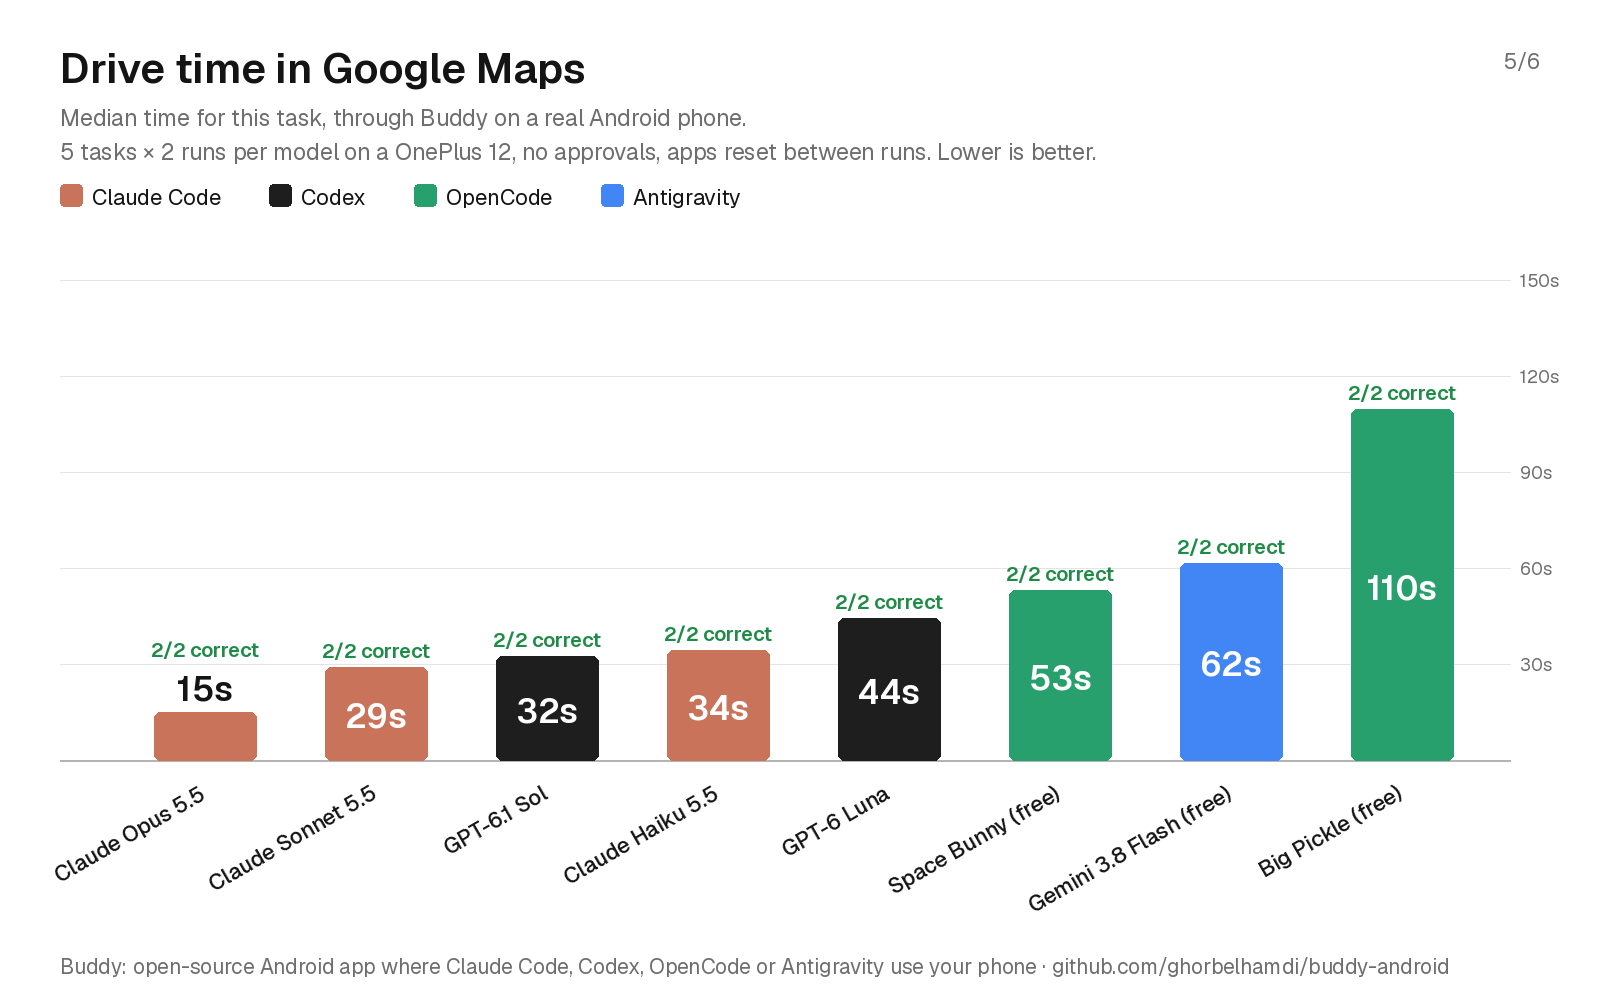
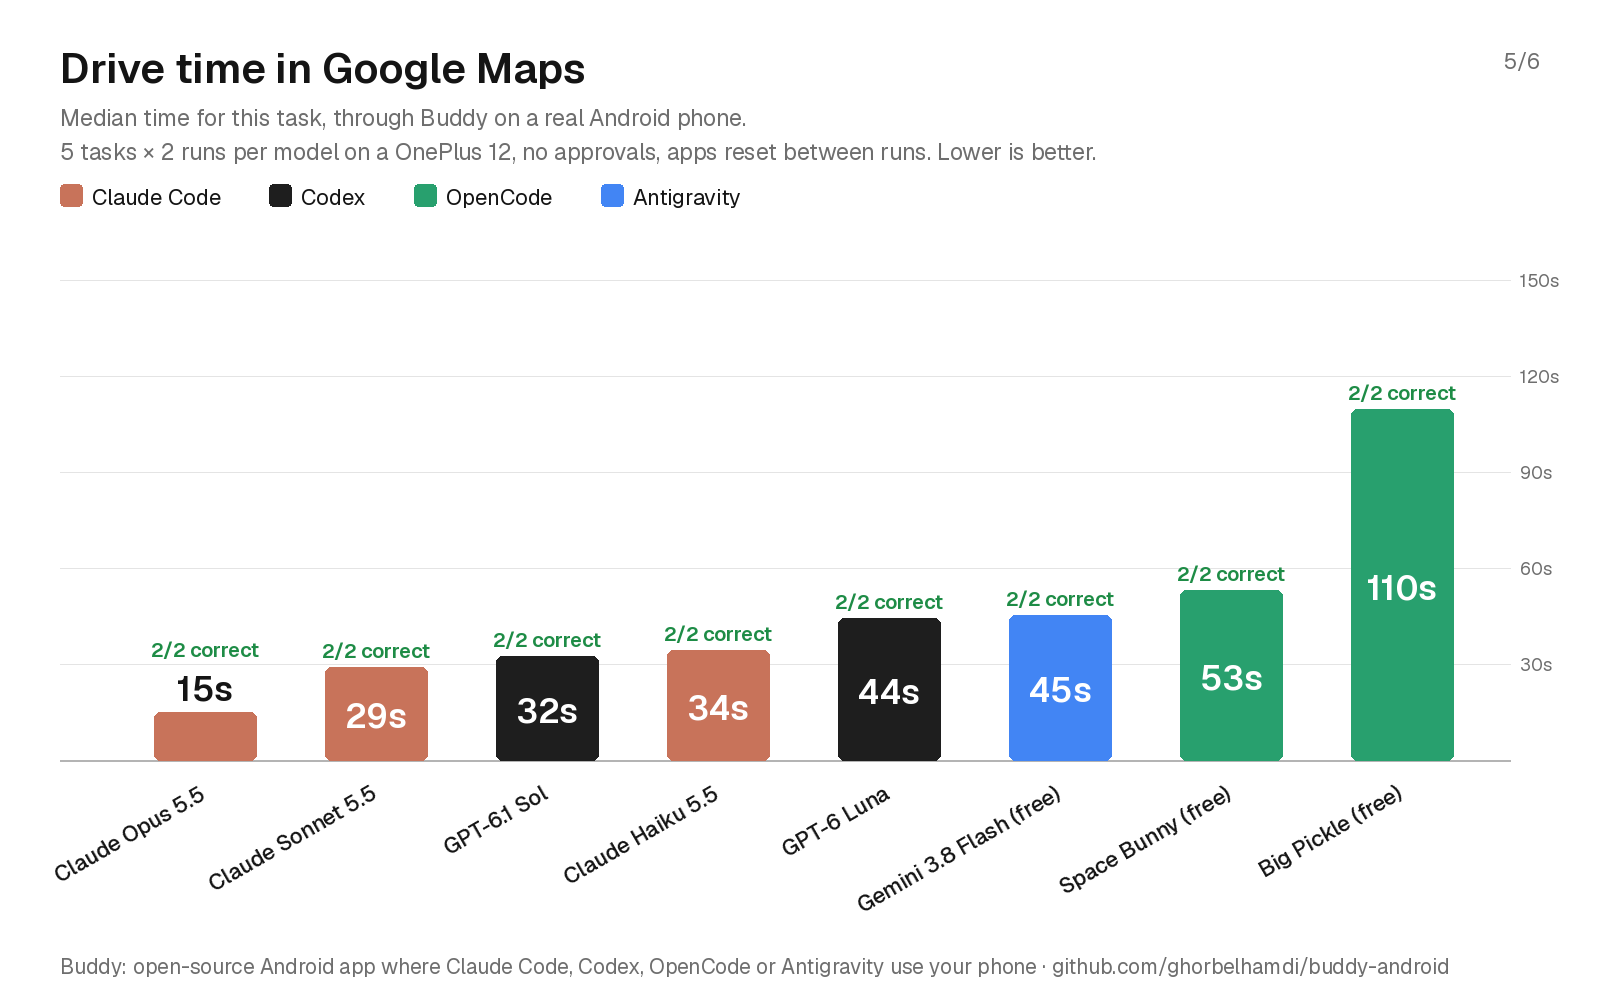
Benchmark: Antigravity rerun on Buddy 2.2.8
The first run was a pre-release build, before Buddy told Antigravity the phone tools' arguments up front. Rerun on
2.2.8 (another Google account, same setup, developer mode on as before): 10/10 correct, median 46 s (was 64 s),
11 steps. Calculator was its weak spot (127 s, 219 s). Charts redrawn.

Claude-Session: https://claude.ai/code/session_01Sz8Aewz1mUApAuyDmVa6LF

diff --git a/benchmark/README.md b/benchmark/README.md
@@ -34,7 +34,7 @@ Median time per task over all 10 runs:
 | Claude Haiku 5.5 | Claude Code | 30 s | 10/10 | 14 |
 | GPT-6.1 Sol | Codex | 36 s | 10/10 | 13 |
 | Space Bunny (free) | OpenCode | 43 s | 10/10 | 15 |
-| Gemini 3.8 Flash Medium (free) | Antigravity | 64 s | 10/10 | 11 |
+| Gemini 3.8 Flash Medium (free) | Antigravity | 46 s | 10/10 | 11 |
 | Big Pickle (free) | OpenCode | 112 s | 10/10 | 12 |
 
 Answers were checked by hand. Luna's misses: twice it gave today's high and low instead of the current temperature, and once it couldn't get Calculator to compute and answered from its own math. For YouTube the agent's own report that the video plays was accepted.
@@ -45,7 +45,7 @@ Raw runs: [results.jsonl](results.jsonl) (`ms` = time, `tools` = phone tool call
 
 ## Limits
 
-One phone, one locale, 2 runs per model and task: a first look, not a definitive ranking. Free OpenCode models change often and some fail on and off (beam, for example, failed half its runs with a server error and isn't listed). Antigravity ran on Google's free plan: most of its time is the model (about 3 s per step), plus a few seconds of agy starting for every message. A second round stopped after 4 runs when the free plan's quota ran out (it resets after about a week), so it isn't counted.
+One phone, one locale, 2 runs per model and task: a first look, not a definitive ranking. Free OpenCode models change often and some fail on and off (beam, for example, failed half its runs with a server error and isn't listed). Antigravity ran on Google's free plan: most of its time is the model (about 3 s per step, sometimes slower), plus a few seconds of agy starting for every message. Calculator was its weak spot (127 s and 219 s). An earlier run on a pre-release build, before Buddy told it the phone tools' arguments up front, had a median of 64 s. The free plan's usage limit ran out after an evening of testing; the error said it resets in about a week.
 
 # Shopping traps: Agent Loyalty Index
 
